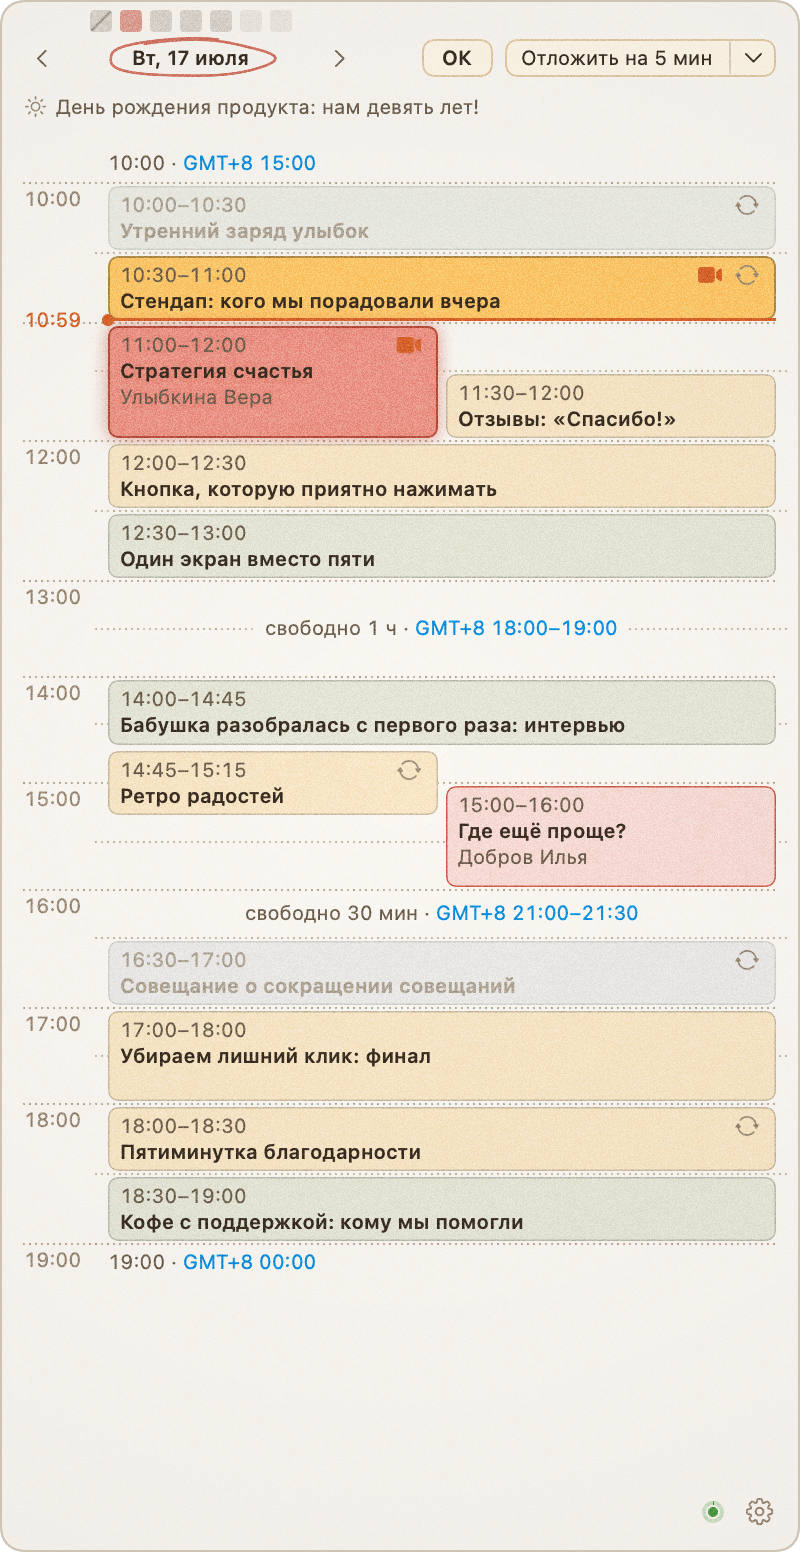
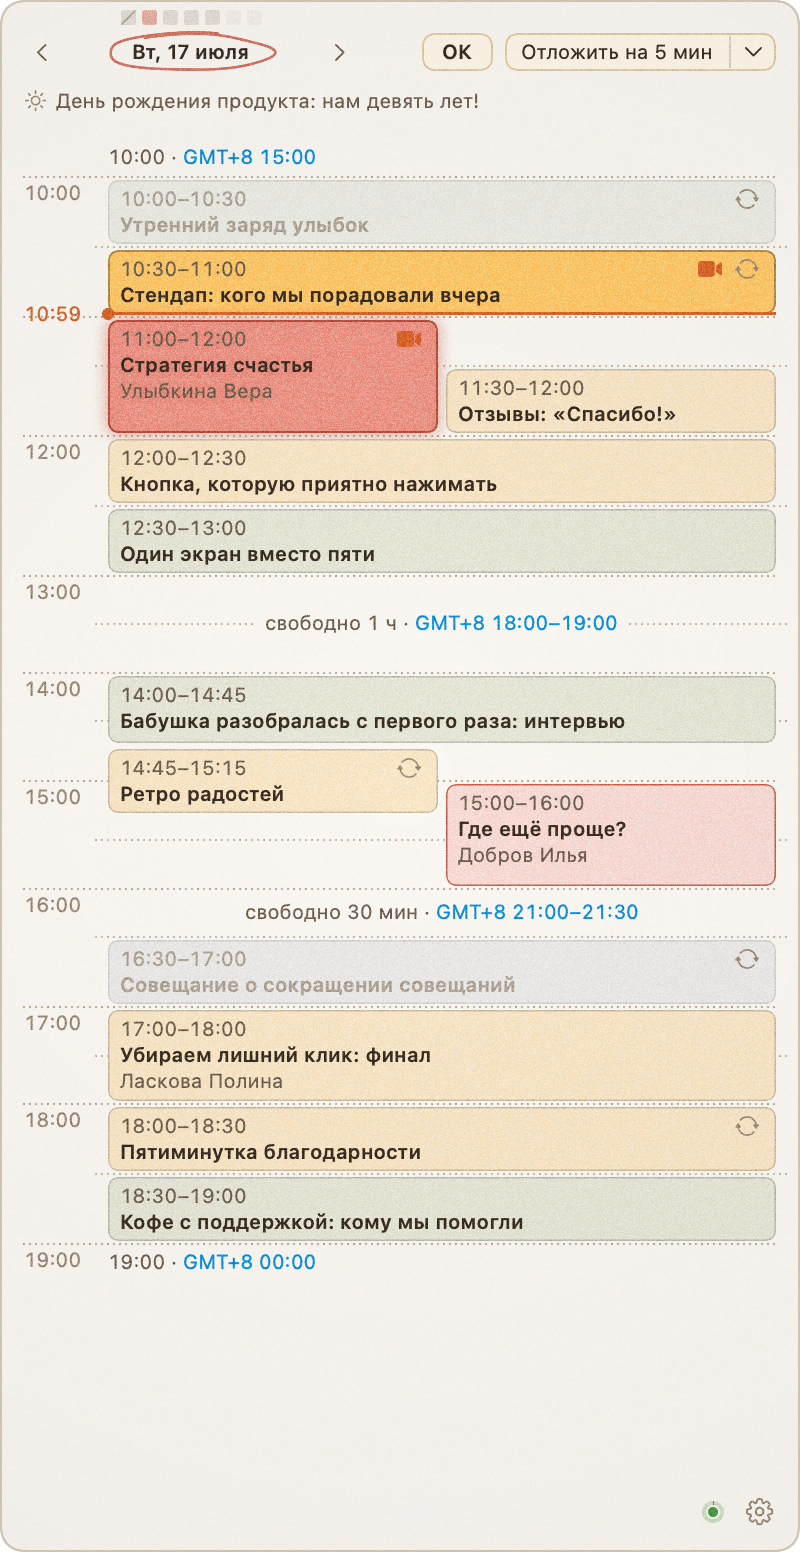
Неделя над датой: квадратики в полтора раза меньше и бледнее, выходные почти прозрачные
Claude-Session: https://claude.ai/code/session_01SW6W8P3aC11VdsTxCJVhW8

diff --git a/Sources/Butler/Panel.swift b/Sources/Butler/Panel.swift
@@ -291,7 +291,7 @@ struct DayView: View {
         }
         // Сверху поле шире — под неделю над датой.
         .padding([.horizontal, .bottom], 12)
-        .padding(.top, 19)
+        .padding(.top, 16)
         .frame(width: width, height: windowHeight(), alignment: .topLeading)
         .coordinateSpace(.named("card"))
         .background(Ink.window)
@@ -654,18 +654,19 @@ struct Week: View {
 
     var body: some View {
         let current = today()
-        HStack(spacing: 4) {
+        let size: CGFloat = 7.5
+        HStack(spacing: 3) {
             ForEach(grid(monthOf(day)).first { $0.contains(day) } ?? [], id: \.self) { d in
-                RoundedRectangle(cornerRadius: 2)
-                    .fill(d == day ? ink(0xCF5F4C).opacity(0.55) : Ink.secondary.opacity(nonWorking(d, workdays: workdays) ? 0.1 : 0.22))
-                    .frame(width: 11, height: 11)
+                RoundedRectangle(cornerRadius: 1.5)
+                    .fill(d == day ? ink(0xCF5F4C).opacity(0.45) : Ink.secondary.opacity(nonWorking(d, workdays: workdays) ? 0.05 : 0.17))
+                    .frame(width: size, height: size)
                     .overlay {
                         if d < current {
                             Path { path in
-                                path.move(to: CGPoint(x: 1, y: 10))
-                                path.addLine(to: CGPoint(x: 10, y: 1))
+                                path.move(to: CGPoint(x: 0.5, y: size - 0.5))
+                                path.addLine(to: CGPoint(x: size - 0.5, y: 0.5))
                             }
-                            .stroke(Ink.secondary.opacity(0.45), style: StrokeStyle(lineWidth: 1.1, lineCap: .round))
+                            .stroke(Ink.secondary.opacity(0.4), style: StrokeStyle(lineWidth: 0.9, lineCap: .round))
                         }
                     }
             }
